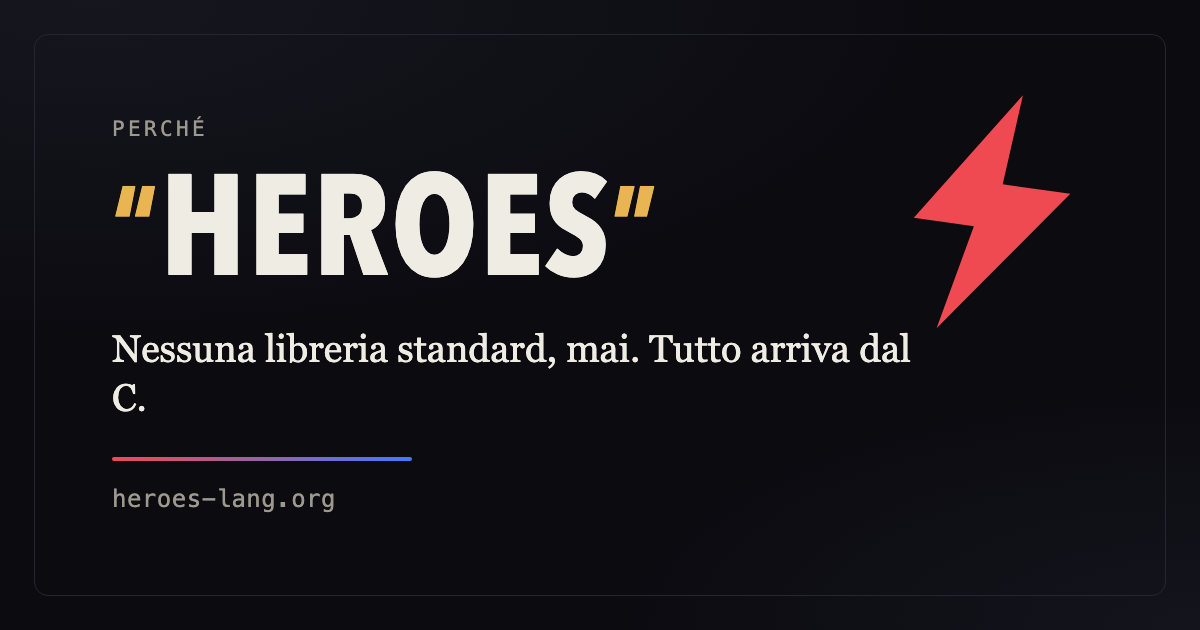
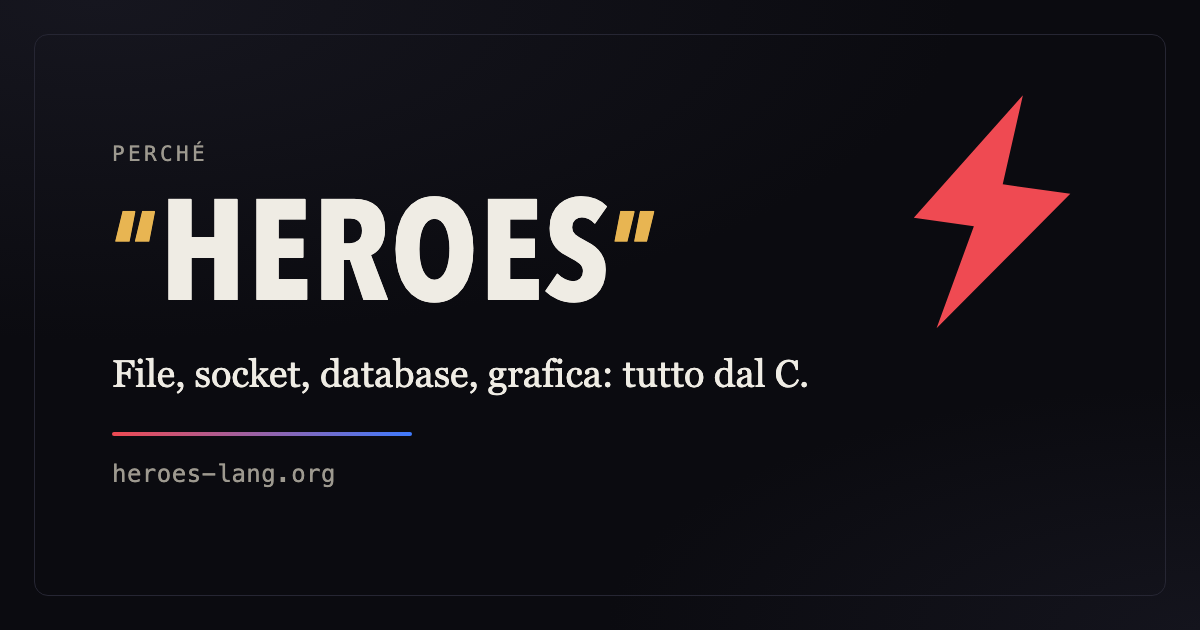
The author's four instructions after the release: no absolute about a standard library, no dashes as bullets, one sentence redone, Thanks back in the nav
Four instructions from the author on 2026-09-07, after the first push, each
applied to both editions.

THE STANDARD LIBRARY. "No standard library" was on the site in 24 places as an
absolute, and the author asked for it to go, because it is the kind of sentence
the project may not keep and because it is already a stretch: `library_source`
embeds a small set of functions written in Heroes. Every occurrence now says the
mechanism instead of the flag. The home pillar reads "Files, sockets, databases,
graphics: all from C"; the section heading "The libraries are C's, on purpose";
the founding constraint on `/why/` "Heroes writes no library of its own for the
world"; the C boundary chapter "Heroes reaches the world through C"; the
strings chapter "Heroes keeps its built-ins to a minimum"; the thanks page,
the log's account of the design conversation, two example fragments, four meta
descriptions and `llms.txt` likewise. The two `why` share cards carried the same
sentence and are regenerated. The one place the words stay is line 19 of the
Zen on `/project/`, "There is no standard library; C is the man who sold the
world", because that block is what `heroes this` prints, byte for byte, and
the site does not edit compiler output.

THE BULLETS. The four pillars under the hero had a red dash each; the author
did not like dashes as bullets. A small red dot now.

THE SENTENCE. "Fatto perché lo sbaglio plausibile di un modello non compili"
[…]

Changed region(s): [[0.0925, 0.181, 0.555, 0.4825], [0.0925, 0.5127, 0.7708, 0.6937], [0.0925, 0.7238, 0.3392, 0.8143]]

diff --git a/site/src/html/it/index.html b/site/src/html/it/index.html
@@ -11,9 +11,9 @@
       <p class="promise">Un intero linguaggio in un prompt, per i modelli che
       scrivono il tuo codice. Si <em>compila da solo</em>.</p>
       <ul class="pillars">
-        <li>Fatto perché lo sbaglio plausibile di un modello non compili.</li>
+        <li>Lo sbaglio tipico di un modello qui è un errore di compilazione.</li>
         <li>Niente null, niente eccezioni, niente garbage collector.</li>
-        <li>Nessuna libreria standard: tutto arriva dal C.</li>
+        <li>File, socket, database, grafica: tutto dal C.</li>
         <li>Binari nativi, e nessun runtime da installare.</li>
       </ul>
       <div class="cta">
@@ -93,7 +93,7 @@
     dice cosa si aspettava e dove. Dove la riparazione si conosce, arriva col messaggio; quella marcata <code>certain</code> la può applicare una macchina. <a href="/it/errors/">Altri errori veri &rarr;</a>
   </p>
 
-  <h2>Nessuna libreria standard, di proposito</h2>
+  <h2>Le librerie sono quelle del C, di proposito</h2>
   <p>
     Matematica oltre l&rsquo;aritmetica, file, socket, database e grafica arrivano
     dalle librerie C che il mondo usa da cinquant&rsquo;anni. Poche righe collegano
@@ -162,6 +162,8 @@ failed: not_a_digit (expected 0-9)
     assistente AI che lavora su un contratto tenuto nel repository. Il
     linguaggio non lo decide nessuno dei due. Ogni cambiamento passa prima da un
     collegio: cinque giudici, quattro dei quali possono rifiutarlo di netto.
+    L&rsquo;ultima parola è umana: ogni decisione aspetta la ratifica
+    dell&rsquo;autore, che può ribaltarla.
     <a href="/it/about/">Chi ha scritto tutto questo &rarr;</a> &middot;&nbsp;<a href="/it/project/#panel">come si decide un cambiamento &rarr;</a>
   </p>
 

diff --git a/site/src/html/index.html b/site/src/html/index.html
@@ -11,9 +11,9 @@
       <p class="promise">A whole language in one prompt, for the models writing
       your code. It <em>compiles itself</em>.</p>
       <ul class="pillars">
-        <li>Designed so that a model&rsquo;s plausible mistake will not compile.</li>
+        <li>A model&rsquo;s typical mistake is a compile error here.</li>
         <li>No null, no exceptions, no garbage collector.</li>
-        <li>No standard library: everything comes from C.</li>
+        <li>Files, sockets, databases, graphics: all from C.</li>
         <li>Native binaries, and no runtime to install.</li>
       </ul>
       <div class="cta">
@@ -96,7 +96,7 @@
     <a href="/errors/">More real errors &rarr;</a>
   </p>
 
-  <h2>No standard library, on purpose</h2>
+  <h2>The libraries are C&rsquo;s, on purpose</h2>
   <p>
     Maths beyond arithmetic, files, sockets, databases and graphics come from
     the C libraries the world has used for fifty years. A few lines connect one
@@ -160,7 +160,8 @@ failed: not_a_digit (expected 0-9)
     One person who had never written a compiler before this one, and an AI
     assistant that works to a contract kept in the repository. Neither of them
     decides the language. Every change goes to a panel first: five judges, four
-    of whom can refuse it outright.
+    of whom can refuse it outright. The last word is human: every resolution
+    waits for the author to ratify it, and he can overturn it.
     <a href="/about/">Who wrote this &rarr;</a> &middot;&nbsp;<a href="/project/#panel">how a change gets decided &rarr;</a>
   </p>
 

diff --git a/site/src/html/it/why.html b/site/src/html/it/why.html
@@ -4,8 +4,7 @@
     <span class="nod">· rebel rebel ·</span>
   </div>
   <p class="lede">Due vincoli, decisi prima della grammatica. Il codice deve
-  essere leggibile da un modello, e il linguaggio non ha una libreria
-  standard.</p>
+  essere leggibile da un modello, e il linguaggio arriva al mondo attraverso il C.</p>
 
   <h2>I modelli sbagliano in modi catalogati <span class="nod">&middot; sound and vision &middot;</span></h2>
   <p>
@@ -48,8 +47,7 @@
   <h2>Il vincolo di partenza</h2>
   <p>
     Il progetto non è partito da una grammatica. È partito da un rifiuto:
-    <b>non c&rsquo;è una libreria standard, e non ci sarà mai.</b> Scriverne una
-    moderna è più lavoro che scrivere il compilatore, ed è la cosa che uccide i
+    <b>Heroes non scrive una libreria propria per il mondo: file, socket, database e grafica arrivano dal C.</b> Scriverne una moderna è più lavoro che scrivere il compilatore, ed è la cosa che uccide i
     linguaggi fatti da una persona sola. Quindi Heroes tiene il minimo
     indispensabile e prende tutto il resto dall&rsquo;enorme quantità di C che esiste
     già.

diff --git a/site/src/html/why.html b/site/src/html/why.html
@@ -4,7 +4,7 @@
     <span class="nod">· rebel rebel ·</span>
   </div>
   <p class="lede">Two constraints, settled before the grammar was. The code must
-  be readable by a model, and the language carries no standard library.</p>
+  be readable by a model, and the language reaches the world through C.</p>
 
   <h2>Models fail in catalogued ways <span class="nod">&middot; sound and vision &middot;</span></h2>
   <p>
@@ -46,8 +46,7 @@
   <h2>The founding constraint</h2>
   <p>
     The project did not start from a grammar. It started from a refusal:
-    <b>there is no standard library, and there never will be one.</b> Writing a
-    modern one is more work than writing the compiler, and it is what kills
+    <b>Heroes writes no library of its own for the world: files, sockets, databases and graphics come from C.</b> Writing a modern library is more work than writing the compiler, and it is what kills
     one-person languages. So Heroes keeps a bare minimum and takes the rest
     from the enormous amount of C that already exists.
   </p>

diff --git a/site/src/html/it/docs/strings.html b/site/src/html/it/docs/strings.html
@@ -89,8 +89,7 @@ error[type_mismatch]: expected `u8`, found `str`
     <figcaption>examples/gallery/07-strings.hero, righe 27&ndash;40</figcaption>
   </figure>
   <p>
-    Uno <code>split</code> predefinito non c&rsquo;è perché Heroes non ha una
-    libreria standard. L&rsquo;esempio divide il testo sugli spazi in dodici righe, e
+    Uno <code>split</code> predefinito non c&rsquo;è perché Heroes tiene le funzioni incorporate al minimo. L&rsquo;esempio divide il testo sugli spazi in dodici righe, e
     quell&rsquo;<code>if i &gt; start</code> è il pezzo che una libreria avrebbe
     deciso al posto tuo: qui due spazi di fila non producono una parola vuota, e
     questa scelta si vede nel codice invece che nella documentazione di qualcun

diff --git a/site/src/html/docs/strings.html b/site/src/html/docs/strings.html
@@ -86,8 +86,7 @@ error[type_mismatch]: expected `u8`, found `str`
     <figcaption>examples/gallery/07-strings.hero, lines 27&ndash;40</figcaption>
   </figure>
   <p>
-    There is no built-in <code>split</code> because Heroes has no standard
-    library. This example splits on spaces in twelve lines, and the
+    There is no built-in <code>split</code>, because Heroes keeps its built-ins to a minimum. This example splits on spaces in twelve lines, and the
     <code>if i &gt; start</code> is the part a library would have decided for
     you: two spaces in a row produce no empty word here, and that is a choice
     visible in the code rather than in someone&rsquo;s documentation.

diff --git a/site/public/style.css b/site/public/style.css
@@ -456,9 +456,12 @@ ul.pillars li {
   margin: 1.1rem 0; padding-left: 1.5rem; position: relative;
   text-wrap: pretty;
 }
+/* A small dot, not a dash. The author did not like the dashes as bullets
+   (2026-09-07), and a dash under a hero whose stat cards run links on with
+   arrows read as one more separator. */
 ul.pillars li::before {
-  content: ''; position: absolute; left: 0; top: 0.62em;
-  width: 0.7rem; height: 1px; background: var(--red);
+  content: ''; position: absolute; left: 0.15rem; top: 0.55em;
+  width: 0.4rem; height: 0.4rem; border-radius: 50%; background: var(--red);
 }
 ul.pillars b { font-style: normal; color: var(--fg); }
 

diff --git a/site/src/html/it/examples/sqlite.html b/site/src/html/it/examples/sqlite.html
@@ -1,3 +1,3 @@
 <p class="tagline">SQLite, da Heroes, senza nessuno strato di adattamento in mezzo.</p>
 
-<p>Apri, interroga, chiudi, dichiarato sull&rsquo;header vero che arriva col sistema operativo. Qui non esiste una libreria standard, quindi un database non è un caso speciale: è a questo che serve il confine con il C, e clang verifica ogni riga.</p>
+<p>Apri, interroga, chiudi, dichiarato sull&rsquo;header vero che arriva col sistema operativo. Qui un database non è un caso speciale: è a questo che serve il confine con il C, e clang verifica ogni riga.</p>

diff --git a/site/src/html/it/about/thanks.html b/site/src/html/it/about/thanks.html
@@ -18,8 +18,7 @@
 
   <h2>Il substrato, e gli strumenti</h2>
   <p>
-    Heroes non ha una libreria standard per scelta, quindi tutto quello che un
-    programma tocca arriva dal C. Il compilatore emette C11 e lo passa a clang,
+    Per scelta, tutto quello che un programma tocca fuori di sé arriva dal C. Il compilatore emette C11 e lo passa a clang,
     che controlla i tipi di ogni dichiarazione esterna sull&rsquo;header vero.
     Il compilatore di bootstrap che ha portato il progetto fino al self-hosting
     era scritto in Rust.

diff --git a/site/src/html/examples/sqlite.html b/site/src/html/examples/sqlite.html
@@ -1,3 +1,3 @@
 <p class="tagline">SQLite, from Heroes, with no shim in between.</p>
 
-<p>Open, query, close, declared against the real header that ships with the operating system. There is no standard library here, so a database is not a special case: it is what the C boundary is for, and clang checks every line of it.</p>
+<p>Open, query, close, declared against the real header that ships with the operating system. A database is not a special case here: it is what the C boundary is for, and clang checks every line of it.</p>

diff --git a/site/src/html/it/log.html b/site/src/html/it/log.html
@@ -216,7 +216,7 @@
     <li id="1">
       <span class="when">l&rsquo;inizio</span>
       <b>Un documento di progetto da 2.000 righe e una domanda.</b>
-      Il linguaggio è arrivato come una lunga conversazione di progetto: un linguaggio compilato senza libreria standard, costruito per il lettore che non è umano.
+      Il linguaggio è arrivato come una lunga conversazione di progetto: un linguaggio compilato che prende le sue librerie dal C, costruito per il lettore che non è umano.
     </li>
   </ol>
 

diff --git a/site/src/html/about/thanks.html b/site/src/html/about/thanks.html
@@ -16,8 +16,7 @@
   </p>
   <h2>The substrate, and the tools</h2>
   <p>
-    Heroes has no standard library by design, so everything a program touches
-    arrives from C. The compiler emits C11 and hands it to clang, which
+    By design, everything a program touches outside itself arrives from C. The compiler emits C11 and hands it to clang, which
     type-checks every foreign declaration against the real header. The bootstrap
     compiler that got the project to self-hosting was written in Rust.
   </p>
